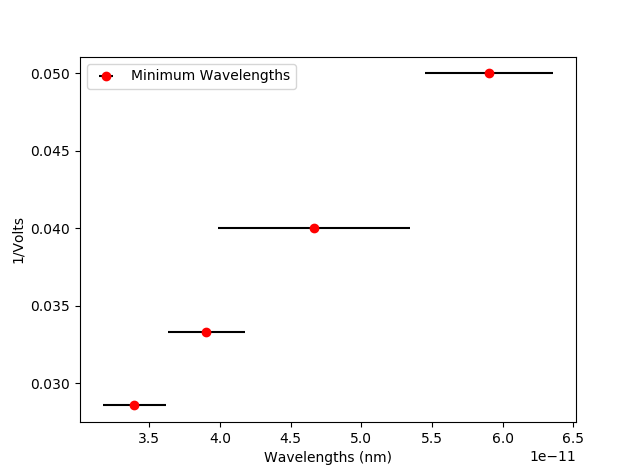
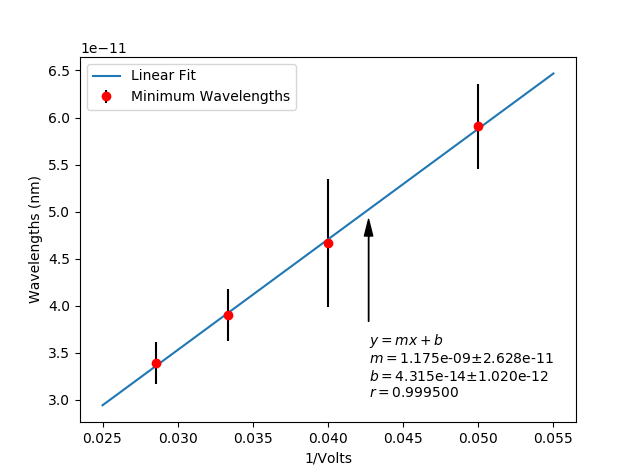
this is an ache

diff --git a/bragg/lab.py b/bragg/lab.py
@@ -485,6 +485,7 @@ def plot_cutoffvoltage():
 def plot_lambdamin():
 
     volts = np.array([20, 25, 30, 35]) #keV
+    x = np.linspace(0.025, .055, 1000)
 
     plt.figure()
 
@@ -501,12 +502,41 @@ def plot_lambdamin():
     syavgs = np.array([syavg2, syavg3, syavg4, syavg5])
 
     lengths, slengths = find_wavelength(thetamins, sxavgs)
+    m, b, sy, sm, sb, r = lsq(1./volts, lengths)
 
-    plt.errorbar(1./volts, lengths, yerr=slengths, fmt='ro', ecolor='k', label=('Minimum Wavelengths'))
+    ache  = (m * q_e.value) / c.value
+    sache = (sm * q_e.value) / c.value
 
-    plt.xlabel('Wavelengths (nm)')
-    plt.ylabel('1/Volts')
+
+    plt.errorbar(1./volts, lengths, yerr=slengths, fmt='ro', ecolor='k', label='Minimum Wavelengths')
+    plt.plot(x, m*x + b, label='Linear Fit')
+    plt.annotate('$y=mx + b$\n$m=$%1.3e$\pm$%1.3e\n$b=$%1.3e$\pm$%1.3e\n$r=$%f' % (m, sm, b, sb, r), xy=(0.0427, 4.98*(10**(-11))), xytext=(0.0427, 3.05*(10**(-11))), arrowprops=dict(facecolor='black', headwidth=6, width=.2, shrink=0.05))
+
+    plt.xlabel('1/Volts')
+    plt.ylabel('Wavelengths (nm)')
     plt.legend(loc='upper left')
+
+def get_ache():
+    volts = np.array([20, 25, 30, 35]) #keV
+    xavg2, sxavg2, syavg2 = cutoff_angle(vnacl_deg, [vnacl_c2], lim=[40], tol=[0.95])
+
+    xavg3, sxavg3, syavg3 = cutoff_angle(vnacl_deg, [vnacl_c3], lim=[29], tol=[0.5])
+
+    xavg4, sxavg4, syavg4 = cutoff_angle(vnacl_deg, [vnacl_c4], lim=[20], tol=[0.5])
+
+    xavg5, sxavg5, syavg5 = cutoff_angle(vnacl_deg, [vnacl_c5], lim=[15], tol=[0.25])
+
+    thetamins = np.array([xavg2, xavg3, xavg4, xavg5])
+    sxavgs = np.array([sxavg2, sxavg3, sxavg4, sxavg5])
+    syavgs = np.array([syavg2, syavg3, syavg4, syavg5])
+
+    lengths, slengths = find_wavelength(thetamins, sxavgs)
+    m, b, sy, sm, sb, r = lsq(1./volts, lengths)
+
+    ache  = (m * q_e.value) / c.value
+    sache = (sm * q_e.value) / c.value
+
+    return ache, sache
 
 def plot_moseleytest():
     mua, sda, mub, sdb = find_salt_angles()
